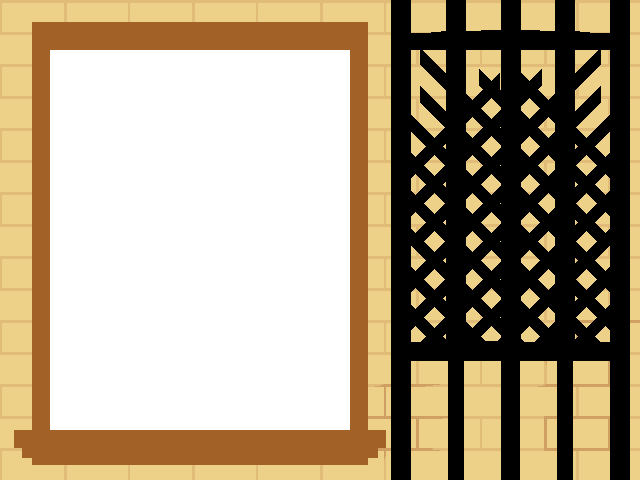
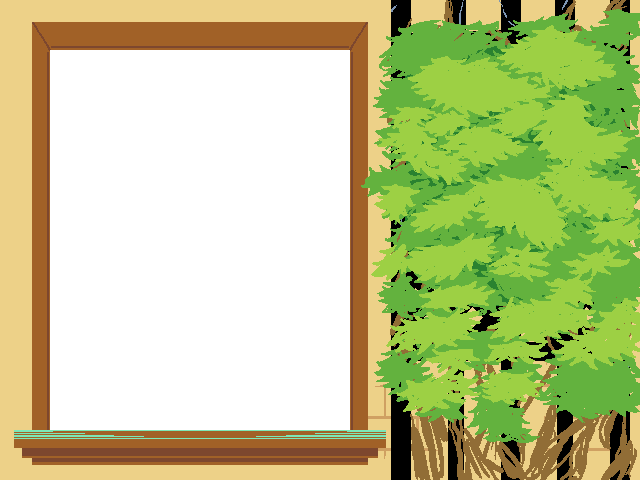
Background is now scrolls vertically instead of spins.

diff --git a/trunk/Renderer.cs b/trunk/Renderer.cs
@@ -730,7 +730,8 @@ namespace SpiritPurger
 
 		// Game Sprites. Let the objects have (not own) the sprites so that
 		// the objects can request drawing, swapping, and alterations of sprites.
-		public Sprite bgSprite;
+        protected Texture bgImg;
+		public Sprite bgSpriteBottom, bgSpriteTop;
 		public Sprite borderSprite;
 		public Healthbar bossHealthbar;
 		// This image is generated on the fly. It is shown to fade in and out the screen.
@@ -765,10 +766,26 @@ namespace SpiritPurger
 			}
 
 			// Instantiate various sprites and other renderables.
-			bgSprite = imageManager.GetSprite("bg");
-			bgSprite.Origin = new Vector2f(bgSprite.TextureRect.Width / 2,
-				bgSprite.TextureRect.Height / 2);
-			bgSprite.Position = FieldUpperLeft + FieldSize / 2;
+            // First, generate the background which must be copied twice vertically
+            // into a new sprite we make.
+            bgImg = imageManager.GetImage("bg");
+            //duplicatedBgRenderTexture = new RenderTexture(bgImg.Size.X, bgImg.Size.Y * 2);
+            bgSpriteBottom = new Sprite(bgImg);
+            bgSpriteTop = new Sprite(bgImg);
+
+            //duplicatedBgRenderTexture.Draw(tempSprite);
+            //duplicatedBgRenderTexture.Draw(new Sprite(bgImg, new IntRect(0, (int)bgImg.Size.Y, (int)bgImg.Size.X, (int)bgImg.Size.Y)));
+            //duplicatedBg = duplicatedBgRenderTexture.Texture;
+            //Sprite bgTempSprite = new Sprite(duplicatedBg);
+            //duplicatedBgRenderTexture.Draw(bgTempSprite);
+            //bgTempSprite.Position = new Vector2f(0F, bgImg.Size.Y);
+            //duplicatedBgRenderTexture.Draw(bgTempSprite);
+            //duplicatedBg = duplicatedBgRenderTexture.Texture;
+			//bgSprite = new Sprite(duplicatedBgRenderTexture.Texture);
+            //bgSprite = imageManager.GetSprite("bg");
+			//bgSprite.Origin = new Vector2f(bgSprite.TextureRect.Width / 2,
+				//bgSprite.TextureRect.Height / 2);
+			//bgSprite.Position = FieldUpperLeft + FieldSize / 2;
 			borderSprite = imageManager.GetSprite("border");
 			bossHealthbar = new Healthbar(imageManager);
 			fullscreenFade = new RectangleShape(
@@ -876,9 +893,20 @@ namespace SpiritPurger
 		{
 			hud.NextFrame(dt);
             invincTimer.Tick(dt);
-			bgSprite.Rotation += (float)bgRotSpeed;
-			if (bgSprite.Rotation >= 360)
-				bgSprite.Rotation -= 360;
+            /*
+			bgSprite.Position = new Vector2f(bgSprite.Position.X, bgSprite.Position.Y + (float)bgRotSpeed * 10);
+			if (bgSprite.Position.Y >= bgSprite.TextureRect.Height)
+                bgSprite.Position = new Vector2f(bgSprite.Position.X, bgSprite.Position.Y - bgSprite.TextureRect.Height);
+             * */
+            bgSpriteBottom.Position = new Vector2f(bgSpriteBottom.Position.X,
+                bgSpriteBottom.Position.Y + (float)bgRotSpeed * 10);
+            if (bgSpriteBottom.Position.Y >= bgSpriteBottom.TextureRect.Height)
+            {
+                bgSpriteBottom.Position = new Vector2f(bgSpriteBottom.Position.X,
+                    bgSpriteBottom.Position.Y - bgSpriteBottom.TextureRect.Height);
+            }
+            bgSpriteTop.Position = new Vector2f(bgSpriteBottom.Position.X,
+                bgSpriteBottom.Position.Y + (float)bgRotSpeed * 10 - bgSpriteBottom.TextureRect.Height);
 		}
 
 		public void UpdatePlayer(ref Player p)
@@ -910,7 +938,8 @@ namespace SpiritPurger
 			RenderWindow app = (RenderWindow)sender;
 
             // Draw the background.
-            app.Draw(bgSprite);
+            app.Draw(bgSpriteBottom);
+            app.Draw(bgSpriteTop);
 
             // Draw all aspects related to the gameplay.
             if (!gameManager.bombBlast.IsGone())

diff --git a/trunk/Options.cs b/trunk/Options.cs
@@ -78,7 +78,7 @@ namespace SpiritPurger
 			options["sfx volume"] = 100;
 			options["bgm volume"] = 100;
 			options["player animation type"] = "pingpong";
-			options["boss animation type"] = "loop";
+			options["boss animation type"] = "pingpong";
 			options["player animation speed"] = 4;
 			options["boss animation speed"] = 5;
 			options["bg swirl speed"] = 0.3;

diff --git a/trunk/MusicManager.cs b/trunk/MusicManager.cs
@@ -176,7 +176,7 @@ namespace SpiritPurger
 				case MUSIC_LIST.SILENT:
 					ret = "silence.ogg"; break;
 				case MUSIC_LIST.TITLE:
-					ret = "title.ogg"; break;
+					ret = "game.ogg"; break;
 				case MUSIC_LIST.GAME:
 					ret = "game.ogg"; break;
 				default:
